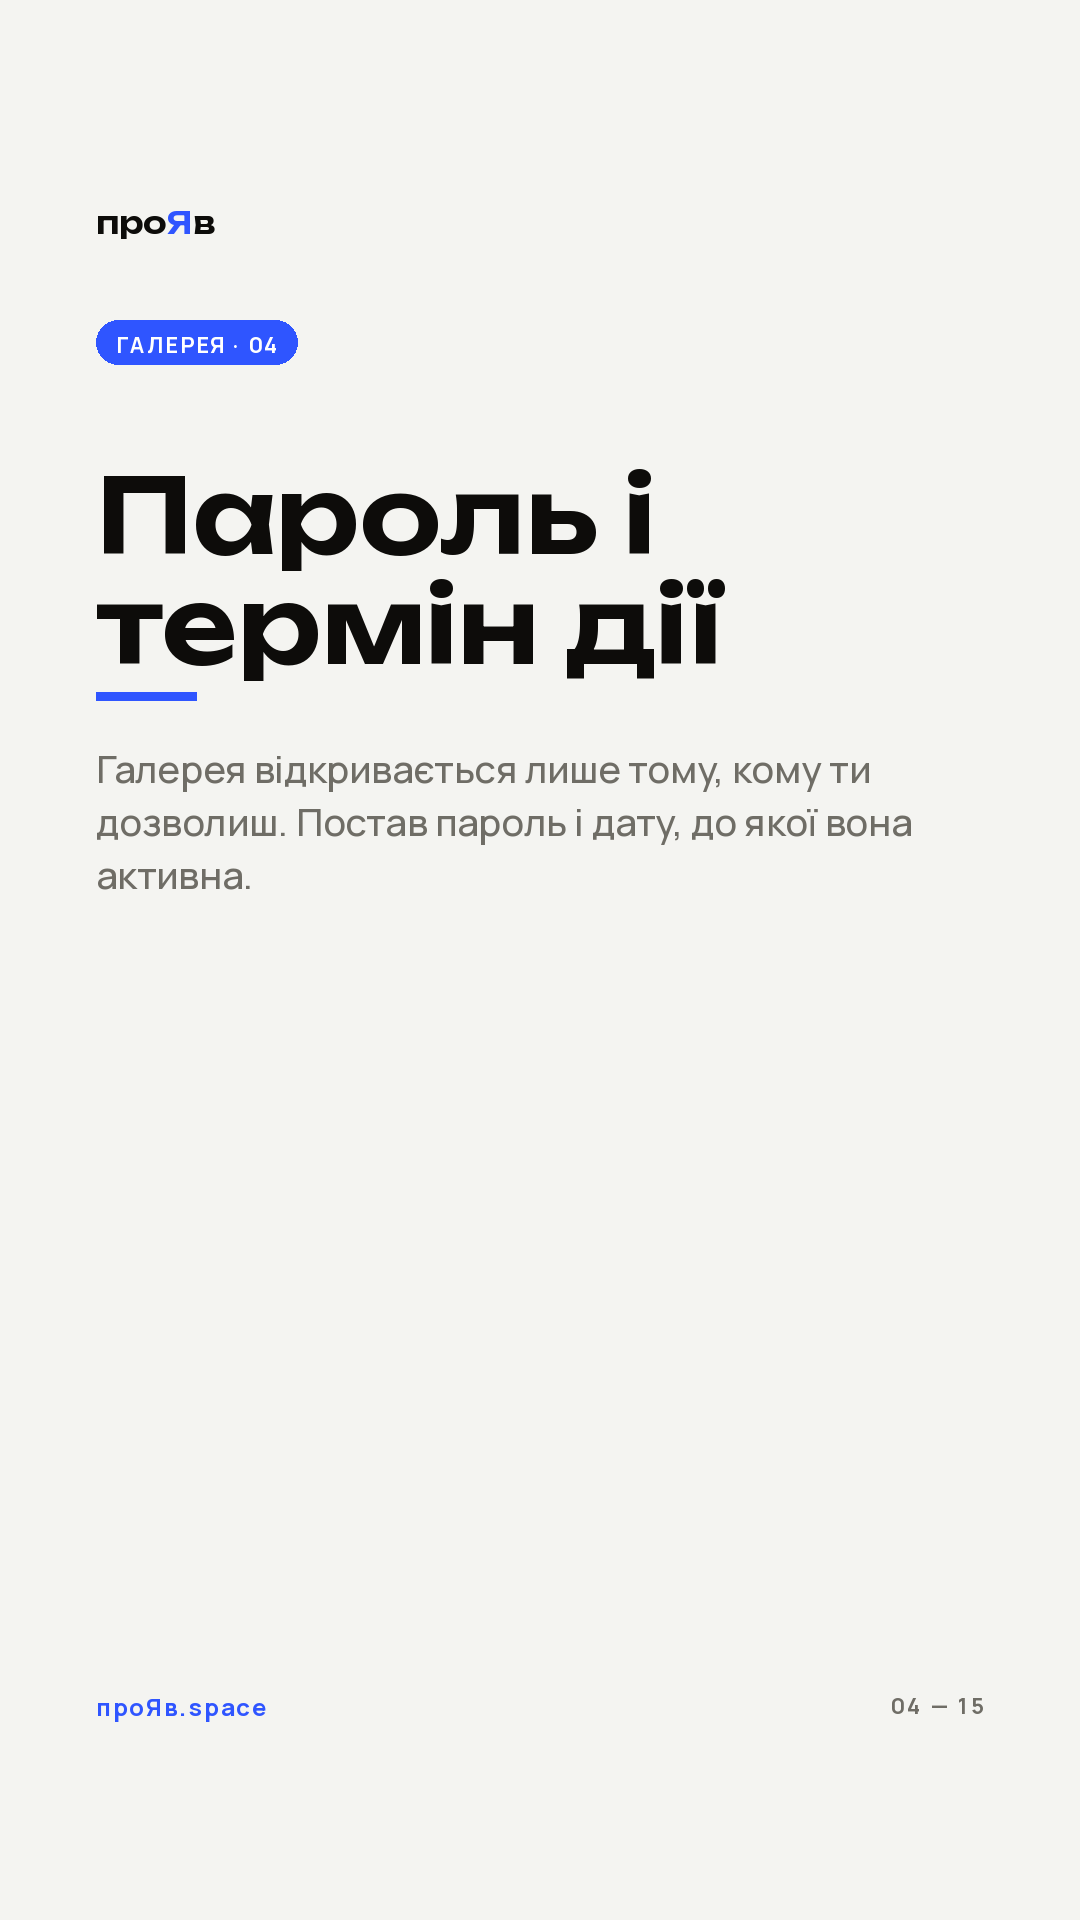
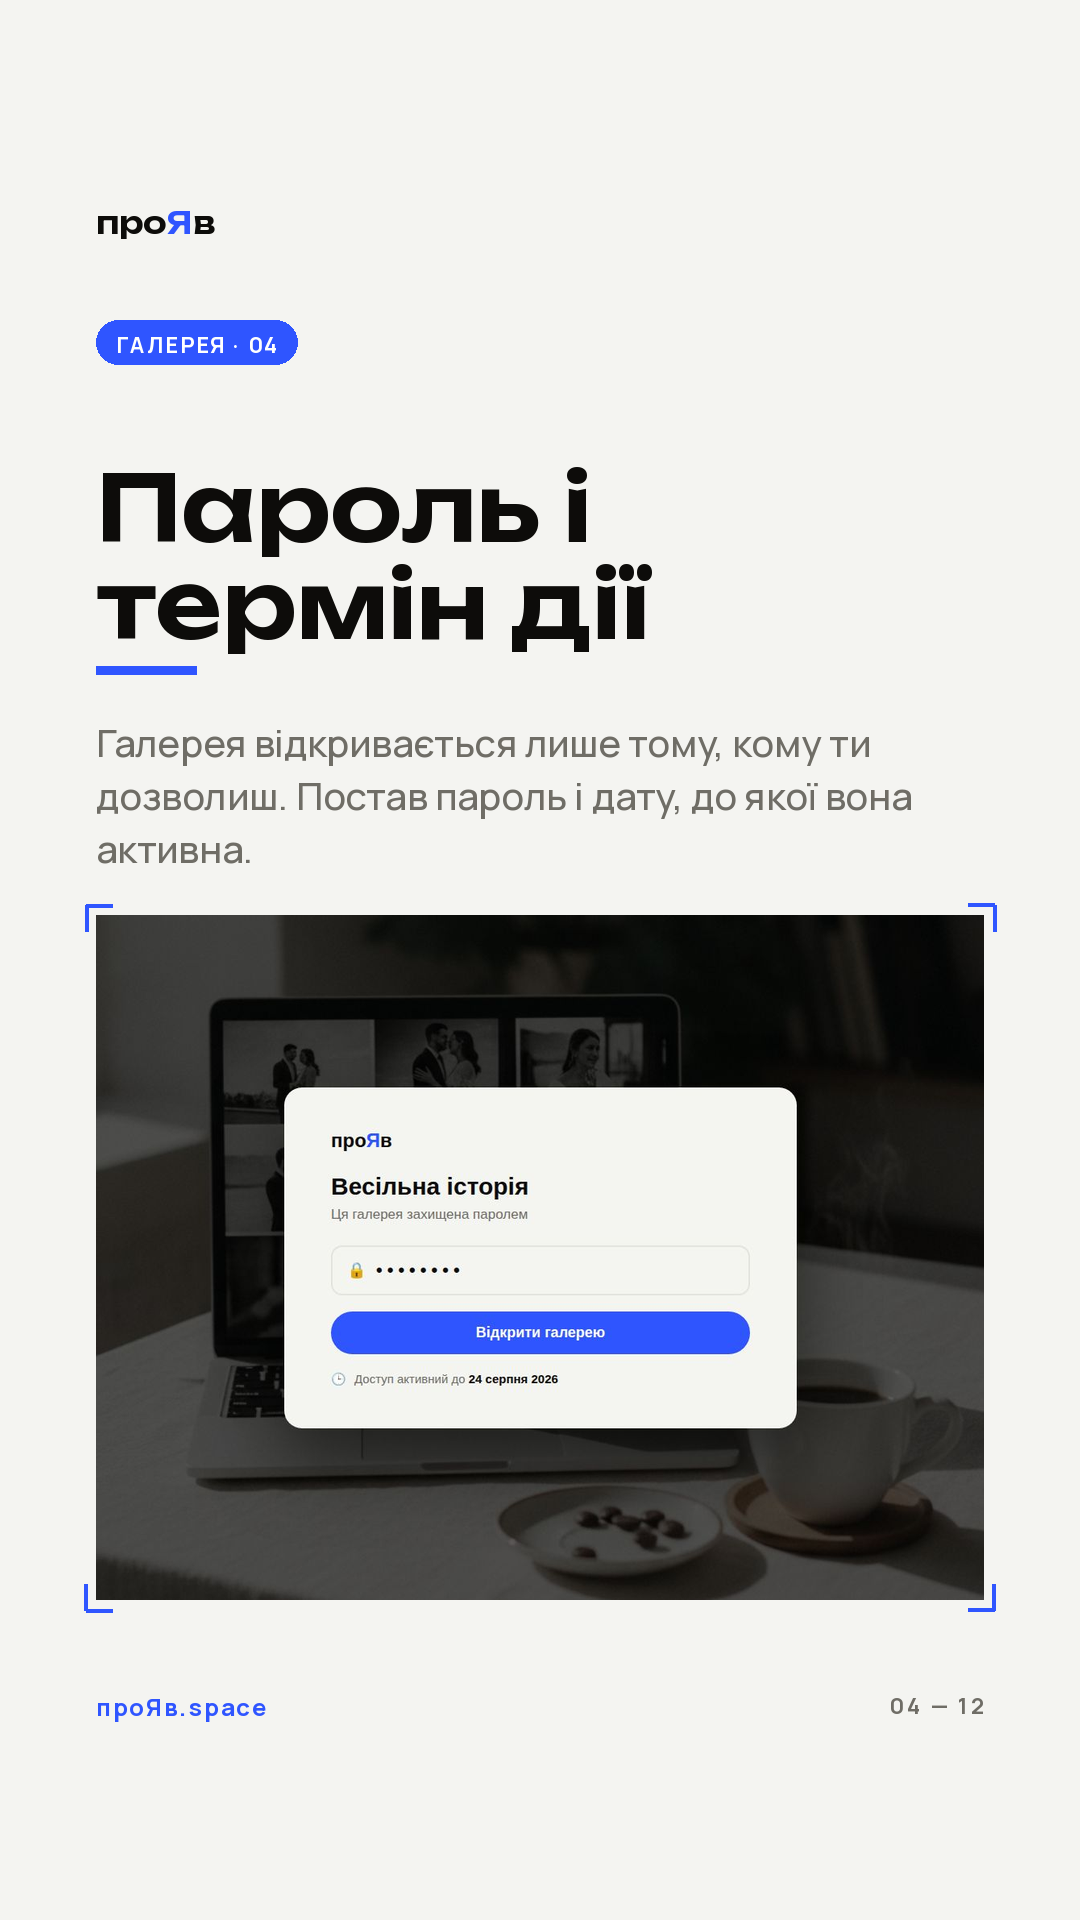
Stories highlight v3: gallery-only, UI screenshots on key frames
- scope narrowed to the client gallery product only (booking/payments/
  referral frames removed)
- new headless-Chromium mockups: password+expiry screen, video tile +
  slideshow grid, view stats dashboard, 9-language dropdown (matches
  i18n locales in the app)
- multilingual frame now says 9 мов (real locale list)

Changed region(s): [[0.0611, 0.2188, 0.9167, 0.8438]]

diff --git a/_mock/stats.html b/_mock/stats.html
@@ -1,0 +1,40 @@
+<!doctype html><meta charset=utf-8>
+<body style="margin:0;width:1200px;height:850px;background:#F4F4F1;font-family:-apple-system,Segoe UI,Roboto,Arial;padding:46px 50px;box-sizing:border-box">
+<div style="display:flex;align-items:baseline;gap:14px">
+  <div style="font-size:22px;font-weight:800;color:#0D0C0A">Статистика · Весільна історія</div>
+  <div style="margin-left:auto;font-size:15px;color:#6F6D66">останні 14 днів</div>
+</div>
+<div style="display:grid;grid-template-columns:repeat(3,1fr);gap:16px;margin-top:24px">
+  <div style="background:#fff;border:1px solid #E5E3DC;border-radius:16px;padding:22px 24px">
+    <div style="font-size:14px;font-weight:700;color:#6F6D66;letter-spacing:1px">ПЕРЕГЛЯДИ</div>
+    <div style="font-size:44px;font-weight:800;color:#0D0C0A;margin-top:6px">184</div>
+    <div style="font-size:14px;color:#2F55FF;font-weight:700;margin-top:4px">↑ 26 сьогодні</div>
+  </div>
+  <div style="background:#fff;border:1px solid #E5E3DC;border-radius:16px;padding:22px 24px">
+    <div style="font-size:14px;font-weight:700;color:#6F6D66;letter-spacing:1px">ЗАВАНТАЖЕНЬ</div>
+    <div style="font-size:44px;font-weight:800;color:#0D0C0A;margin-top:6px">57</div>
+    <div style="font-size:14px;color:#6F6D66;margin-top:4px">повний архів · 12</div>
+  </div>
+  <div style="background:#fff;border:1px solid #E5E3DC;border-radius:16px;padding:22px 24px">
+    <div style="font-size:14px;font-weight:700;color:#6F6D66;letter-spacing:1px">ОБРАНІ ♥</div>
+    <div style="font-size:44px;font-weight:800;color:#2F55FF;margin-top:6px">32</div>
+    <div style="font-size:14px;color:#6F6D66;margin-top:4px">із 247 фото</div>
+  </div>
+</div>
+<div style="background:#fff;border:1px solid #E5E3DC;border-radius:16px;padding:24px;margin-top:16px">
+  <div style="font-size:15px;font-weight:700;color:#0D0C0A;margin-bottom:18px">Перегляди по днях</div>
+  <div style="display:flex;align-items:flex-end;gap:14px;height:210px">
+    <div style="flex:1;background:#E9EDFF;border-radius:8px 8px 0 0;height:22%"></div>
+    <div style="flex:1;background:#E9EDFF;border-radius:8px 8px 0 0;height:35%"></div>
+    <div style="flex:1;background:#C9D4FF;border-radius:8px 8px 0 0;height:52%"></div>
+    <div style="flex:1;background:#E9EDFF;border-radius:8px 8px 0 0;height:30%"></div>
+    <div style="flex:1;background:#C9D4FF;border-radius:8px 8px 0 0;height:64%"></div>
+    <div style="flex:1;background:#8FA2FF;border-radius:8px 8px 0 0;height:78%"></div>
+    <div style="flex:1;background:#2F55FF;border-radius:8px 8px 0 0;height:100%"></div>
+  </div>
+</div>
+<div style="display:flex;align-items:center;gap:12px;margin-top:16px;background:#fff;border:1px solid #E5E3DC;border-radius:14px;padding:16px 20px">
+  <span style="font-size:18px">👀</span>
+  <span style="font-size:16px;color:#0D0C0A"><b>Клієнт відкрив галерею</b> — сьогодні о 14:32 · переглянув 118 фото</span>
+</div>
+</body>

diff --git a/_mock/video.html b/_mock/video.html
@@ -1,0 +1,24 @@
+<!doctype html><meta charset=utf-8>
+<body style="margin:0;width:1200px;height:850px;background:#F4F4F1;font-family:-apple-system,Segoe UI,Roboto,Arial;padding:40px 48px;box-sizing:border-box">
+<div style="display:flex;align-items:center;gap:14px">
+  <div style="font-size:21px;font-weight:800;color:#0D0C0A">Весільна історія</div>
+  <div style="margin-left:auto;display:flex;gap:10px">
+    <div style="border:2px solid #E5E3DC;border-radius:999px;padding:10px 22px;font-size:15px;font-weight:700;color:#0D0C0A;display:flex;align-items:center;gap:8px">▶ Слайдшоу</div>
+    <div style="background:#2F55FF;border-radius:999px;padding:10px 22px;font-size:15px;font-weight:700;color:#fff">Завантажити</div>
+  </div>
+</div>
+<div style="display:grid;grid-template-columns:2fr 1fr;grid-template-rows:324px 324px;gap:16px;margin-top:24px">
+  <div style="position:relative;grid-row:span 2;border-radius:16px;overflow:hidden">
+    <img src="../input/photos/gallery-beautiful.jpg" style="width:100%;height:100%;object-fit:cover;display:block">
+    <div style="position:absolute;inset:0;background:rgba(0,0,0,.28);display:flex;align-items:center;justify-content:center">
+      <div style="width:100px;height:100px;border-radius:50%;background:rgba(255,255,255,.94);display:flex;align-items:center;justify-content:center;font-size:36px;padding-left:9px;box-shadow:0 18px 50px rgba(0,0,0,.35)">▶</div>
+    </div>
+    <div style="position:absolute;left:18px;bottom:16px;background:rgba(0,0,0,.55);color:#fff;border-radius:8px;padding:7px 14px;font-size:15px;font-weight:700">▶ Відео · 02:34</div>
+  </div>
+  <div style="border-radius:16px;overflow:hidden"><img src="../input/photos/gallery-hero.jpg" style="width:100%;height:100%;object-fit:cover;display:block"></div>
+  <div style="position:relative;border-radius:16px;overflow:hidden">
+    <img src="../input/photos/photo-photographer.jpg" style="width:100%;height:100%;object-fit:cover;display:block;filter:brightness(.55)">
+    <div style="position:absolute;inset:0;display:flex;align-items:center;justify-content:center;color:#fff;font-size:22px;font-weight:800">+244 фото</div>
+  </div>
+</div>
+</body>

diff --git a/_mock/langs.html b/_mock/langs.html
@@ -1,0 +1,24 @@
+<!doctype html><meta charset=utf-8>
+<body style="margin:0;width:1200px;height:850px;background:#12110E;font-family:-apple-system,Segoe UI,Roboto,Arial;position:relative;overflow:hidden">
+<img src="../input/photos/gallery-beautiful.jpg" style="position:absolute;inset:0;width:100%;height:100%;object-fit:cover;filter:brightness(.42)">
+<div style="position:absolute;top:0;left:0;right:0;padding:26px 44px;display:flex;align-items:center">
+  <div style="font-size:22px;font-weight:800;color:#fff">Wedding story</div>
+  <div style="margin-left:auto;display:flex;gap:10px;align-items:flex-start">
+    <div style="background:rgba(255,255,255,.14);border:1px solid rgba(255,255,255,.35);backdrop-filter:blur(6px);border-radius:999px;padding:10px 20px;color:#fff;font-size:15px;font-weight:700">♥ Обрані</div>
+    <div>
+      <div style="background:#fff;border-radius:14px 14px 0 0;padding:12px 20px;color:#0D0C0A;font-size:15px;font-weight:800;display:flex;gap:8px;align-items:center">🌐 UA <span style="font-size:11px">▼</span></div>
+      <div style="background:#fff;border-radius:0 0 14px 14px;box-shadow:0 30px 60px rgba(0,0,0,.45);width:224px;overflow:hidden">
+        <div style="padding:12px 20px;font-size:15px;color:#0D0C0A;font-weight:800;background:#EEF2FF;display:flex;justify-content:space-between">Українська <span style="color:#2F55FF">✓</span></div>
+        <div style="padding:12px 20px;font-size:15px;color:#3c3b36">English</div>
+        <div style="padding:12px 20px;font-size:15px;color:#3c3b36">Polski</div>
+        <div style="padding:12px 20px;font-size:15px;color:#3c3b36">Deutsch</div>
+        <div style="padding:12px 20px;font-size:15px;color:#3c3b36">Español</div>
+        <div style="padding:12px 20px;font-size:15px;color:#3c3b36">Français</div>
+        <div style="padding:12px 20px;font-size:15px;color:#3c3b36">Italiano</div>
+        <div style="padding:12px 20px;font-size:15px;color:#3c3b36">Română</div>
+        <div style="padding:12px 20px;font-size:15px;color:#3c3b36">Português</div>
+      </div>
+    </div>
+  </div>
+</div>
+</body>

diff --git a/_mock/password.html b/_mock/password.html
@@ -1,0 +1,17 @@
+<!doctype html><meta charset=utf-8>
+<body style="margin:0;width:1200px;height:850px;background:#12110E;font-family:-apple-system,Segoe UI,Roboto,Arial;display:flex;align-items:center;justify-content:center;position:relative;overflow:hidden">
+<img src="../input/photos/gallery-hero.jpg" style="position:absolute;inset:0;width:100%;height:100%;object-fit:cover;filter:brightness(.35) grayscale(.4)">
+<div style="position:relative;background:#F4F4F1;border-radius:22px;padding:52px 58px;width:520px;box-shadow:0 40px 90px rgba(0,0,0,.5)">
+  <div style="font-size:24px;font-weight:800;color:#0D0C0A">про<span style="color:#2F55FF">Я</span>в</div>
+  <div style="font-size:30px;font-weight:800;color:#0D0C0A;margin-top:26px">Весільна історія</div>
+  <div style="font-size:17px;color:#6F6D66;margin-top:8px">Ця галерея захищена паролем</div>
+  <div style="margin-top:28px;border:2px solid #E5E3DC;border-radius:14px;padding:16px 18px;display:flex;align-items:center;gap:12px">
+    <span style="font-size:19px">🔒</span>
+    <span style="letter-spacing:6px;font-size:22px;color:#0D0C0A;font-weight:700">••••••••</span>
+  </div>
+  <div style="margin-top:20px;background:#2F55FF;border-radius:999px;text-align:center;padding:16px;color:#fff;font-size:18px;font-weight:800">Відкрити галерею</div>
+  <div style="margin-top:22px;display:flex;align-items:center;gap:10px;font-size:15px;color:#6F6D66">
+    <span>🕒</span><span>Доступ активний до <b style="color:#0D0C0A">24 серпня 2026</b></span>
+  </div>
+</div>
+</body>

diff --git a/config.py b/config.py
@@ -158,10 +158,12 @@ CAPTION_FOOTER = "\n\n—\n{brand} · українська галерея для
 # + price + CTA. Headlines accent a *word* in cobalt, just like carousels.
 STORY_SIZE = (1080, 1920)
 
+# This highlight is ONLY about the client photo gallery — no booking, no
+# payments, no referral. One product story, told frame by frame.
 STORIES = [
     {
         "id": "HL_GALEREYA",
-        "title": "проЯв — усе про сервіс",   # highlight name (шапка)
+        "title": "проЯв — фотогалерея",      # highlight name (шапка)
         "frames": [
             {"type": "cover"},
             # ціна спершу — одразу після обкладинки
@@ -176,37 +178,31 @@ STORIES = [
              "photo": "gallery-beautiful.jpg"},
             {"type": "feature", "kick": "ГАЛЕРЕЯ",
              "head": "*Пароль* і термін дії",
-             "body": "Галерея відкривається лише тому, кому ти дозволиш. Постав пароль і дату, до якої вона активна."},
+             "body": "Галерея відкривається лише тому, кому ти дозволиш. Постав пароль і дату, до якої вона активна.",
+             "photo": "screenshot-password.jpg"},
             {"type": "feature", "kick": "ГАЛЕРЕЯ",
              "head": "*Завантаження* без втрат",
              "body": "Zip-архів одним кліком, оригінали зберігаються байт у байт — без стискання і згаслих посилань."},
             {"type": "feature", "kick": "ГАЛЕРЕЯ",
              "head": "*Відео* та слайдшоу",
              "body": "Додавай відео просто в галерею, показуй зйомку на весь екран у режимі слайдшоу.",
-             "photo": "photo_2.jpg"},
+             "photo": "screenshot-video.jpg"},
             {"type": "feature", "kick": "АНАЛІТИКА",
              "head": "*Статистика* переглядів",
-             "body": "Бачиш, що клієнт відкрив галерею, які фото дивився й що завантажив. Жодних здогадок."},
+             "body": "Бачиш, коли клієнт відкрив галерею, які фото дивився й що завантажив. Жодних здогадок.",
+             "photo": "screenshot-stats.jpg"},
             {"type": "feature", "kick": "ДИЗАЙН",
              "head": "*Дизайн-студія*",
              "body": "Обери тему, шрифт, обкладинку й розкладку фото. Галерея виглядає у твоєму стилі, а не шаблонно.",
              "photo": "site-proyav.jpg"},
             {"type": "feature", "kick": "МОВИ",
-             "head": "*Мультимовність*",
-             "body": "Інтерфейс і галерея — українською та англійською. Іноземний клієнт усе зрозуміє."},
+             "head": "*9 мов* для клієнтів",
+             "body": "Українська, англійська, польська, німецька та ще 5 мов. Іноземний клієнт бачить галерею своєю мовою.",
+             "photo": "screenshot-langs.jpg"},
             {"type": "feature", "kick": "БРЕНД",
              "head": "Твій *бренд*, не Google",
-             "body": "Твоє ім'я, кольори й власний домен із SSL. На платних тарифах проЯв ніде не згадується — біле лейблування.",
+             "body": "Твоє ім'я, логотип і кольори. На платних тарифах проЯв у галереї ніде не згадується.",
              "photo": "photo-photographer.jpg"},
-            {"type": "feature", "kick": "БРОНЮВАННЯ",
-             "head": "*Бронювання* зйомок",
-             "body": "Клієнт сам обирає вільний слот і одразу оплачує. Синхронізація з Google Calendar."},
-            {"type": "feature", "kick": "ОПЛАТА",
-             "head": "Гроші — одразу *тобі*",
-             "body": "Оплата напряму на твою картку: Monobank, WayForPay, банка чи реквізити. Платформа не торкається грошей."},
-            {"type": "feature", "kick": "БОНУС",
-             "head": "*10%* за друга",
-             "body": "Реферальна програма: 10% кредитом з кожної оплати колеги, якого ти запросила."},
             {"type": "cta"},
         ],
     },
